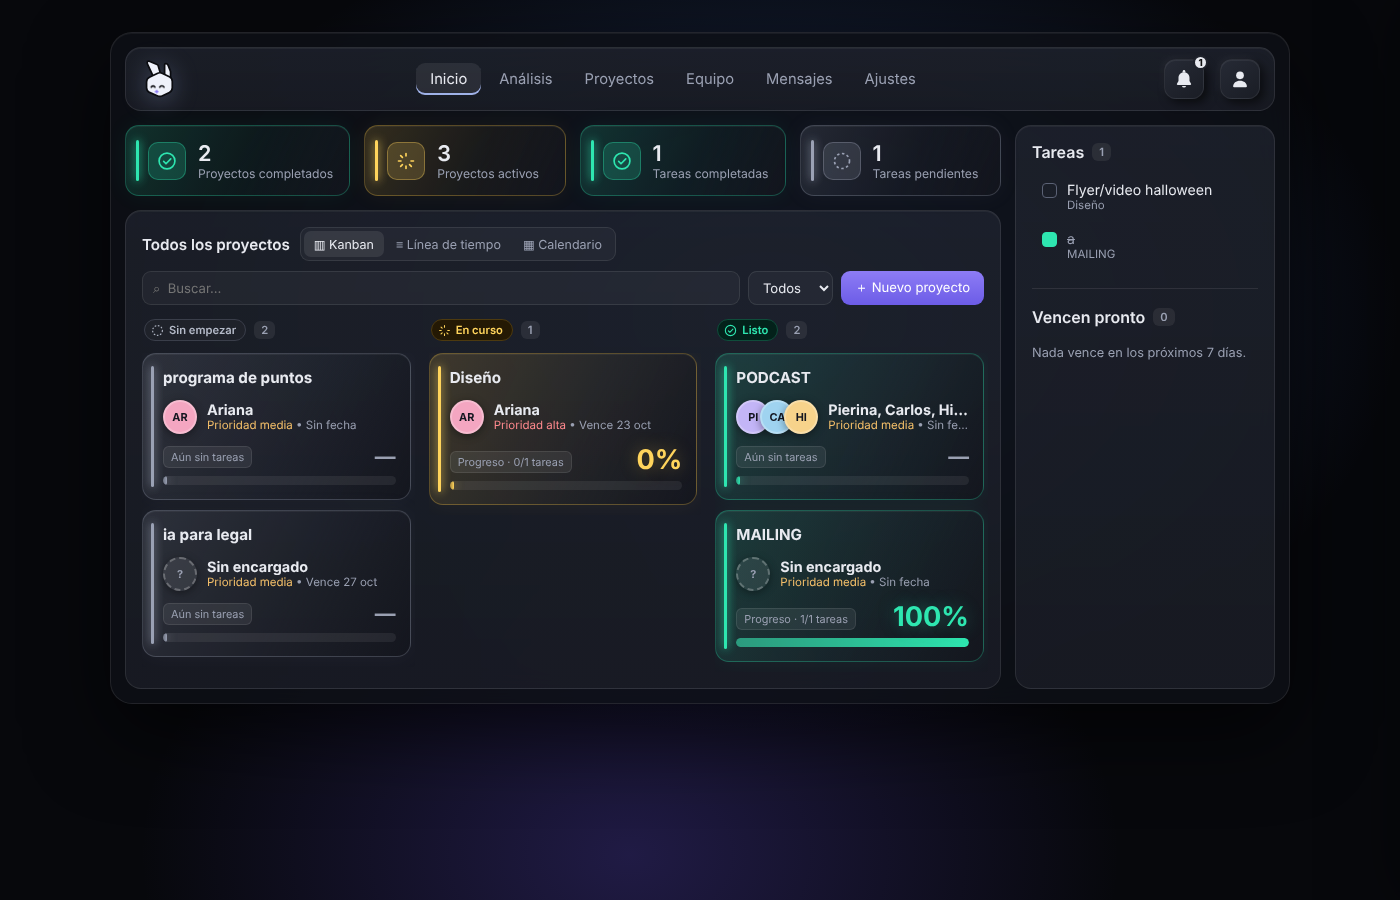
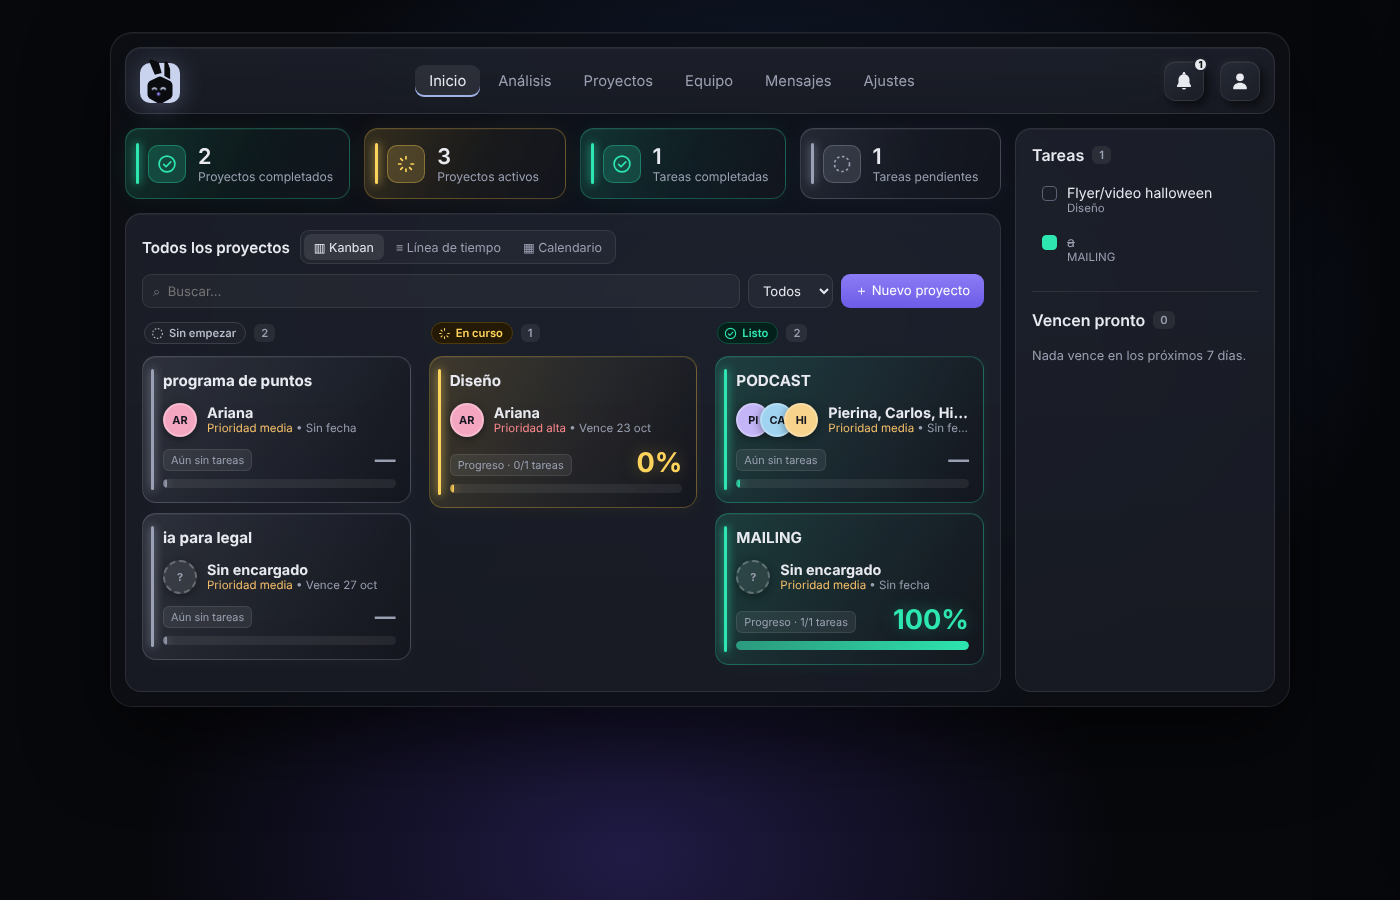
Panel: conejo dentro de su recuadro
Claude-Session: https://claude.ai/code/session_01L8QtHgV8HSYntBJ1ppQiSV

diff --git a/borradores/panel.html b/borradores/panel.html
@@ -33,8 +33,8 @@
   }
   /* Barra superior */
   .barra { display: flex; align-items: center; gap: 16px; padding: 10px 14px; margin-bottom: 14px; }
-  .logo { width: 42px; height: 42px; flex: none; display: block; filter: drop-shadow(0 4px 12px rgba(159,178,232,.3)); }
-  .logo .ojos { transform-origin: 27px 44px; animation: parpadeo 5s infinite; }
+  .logo { width: 40px; height: 45px; flex: none; display: block; filter: drop-shadow(0 4px 12px rgba(159,178,232,.3)); }
+  .logo .ojos { transform-origin: 30px 49px; animation: parpadeo 5s infinite; }
   @keyframes parpadeo { 0%, 92%, 100% { transform: scaleY(1); } 95% { transform: scaleY(.1); } }
   nav { flex: 1; display: flex; justify-content: center; gap: 4px; }
   nav a { color: var(--tenue); text-decoration: none; font-size: .92rem; padding: 7px 14px; border-radius: 9px; }
@@ -321,20 +321,20 @@
 <body>
 <div class="app">
   <header class="barra vidrio">
-    <svg class="logo" viewBox="0 0 64 64" role="img" aria-label="Inicio">
-      <g stroke="#0b0c10" stroke-width="2.6" stroke-linejoin="round" fill="#eef1fa">
-        <!-- orejas -->
-        <path d="M11 6.5c.4-1.4 1.8-2.1 3.1-1.6L26 9.8c.8.3 1.4 1 1.6 1.8l4 13.6-11.4 2.8L11.6 9.6c-.6-1-.8-2-.6-3.1Z"/>
-        <path d="M37.5 10.6c0-1.6 1.6-2.6 3-1.9 1 .5 1.9 1.4 2.4 2.5l3.3 8.4c.3.7.4 1.4.4 2.2V39l-9.1-6.3Z"/>
-        <!-- cabeza -->
-        <path d="M10 36.5c0-3 1.7-5.7 4.4-7.1l11.8-5.9c2.6-1.3 5.6-1.3 8.2 0l10.4 5.2c2.7 1.4 4.4 4.1 4.4 7.1v9.5c0 3-1.7 5.7-4.4 7.1l-10.4 5.2c-2.6 1.3-5.6 1.3-8.2 0L14.4 52.4C11.7 51 10 48.3 10 45.3Z"/>
+    <svg class="logo" viewBox="0 0 64 72" role="img" aria-label="Inicio">
+      <defs><clipPath id="logoCaja"><rect x="0" y="8" width="64" height="64" rx="16"/></clipPath></defs>
+      <rect x="0" y="8" width="64" height="64" rx="16" fill="#c9d3ee"/>
+      <!-- orejas: asoman por encima del recuadro -->
+      <g fill="#0b0c10">
+        <path d="M15 4.2c.4-1.6 2.1-2.4 3.6-1.8l10 4.2c.9.4 1.6 1.2 1.9 2.1l4.2 15.2-11 3-8.2-19.6c-.5-1-.7-2-.5-3.1Z"/>
+        <path d="M39 7.5c0-1.8 1.8-2.9 3.3-2.1 1.1.6 2 1.6 2.5 2.8l3 8.4c.3.8.4 1.6.4 2.4V34l-9.2-5.4Z"/>
       </g>
-      <!-- cara -->
-      <g class="ojos" fill="none" stroke="#0b0c10" stroke-width="2.4" stroke-linecap="round">
-        <path d="M17 44.5c1.4-2.6 4.4-2.6 5.8 0"/>
-        <path d="M30 44.5c1.6-2.9 5-2.9 6.6 0"/>
+      <!-- cabeza dentro del recuadro -->
+      <path d="M12 44c0-3.2 1.8-6.1 4.6-7.6l11.6-5.8c2.4-1.2 5.2-1.2 7.6 0l11.6 5.8c2.8 1.5 4.6 4.4 4.6 7.6v14c0 3.2-1.8 6.1-4.6 7.6L36 72H28l-11.4-6.4C13.8 64.1 12 61.2 12 58Z" fill="#0b0c10" clip-path="url(#logoCaja)"/>
+      <g class="ojos" fill="none" stroke="#c9d3ee" stroke-width="2.6" stroke-linecap="round">
+        <path d="M20 50c1.5-2.8 4.7-2.8 6.2 0"/><path d="M33.6 50c1.6-3 5.2-3 6.8 0"/>
       </g>
-      <path d="M25.4 49.2v3.8M23.5 51.1h3.8" stroke="#8d7cf5" stroke-width="2.2" stroke-linecap="round"/>
+      <path d="M29.6 55.6v4M27.6 57.6h4" stroke="#8d7cf5" stroke-width="2.4" stroke-linecap="round"/>
     </svg>
     <nav>
       <a class="activo">Inicio</a><a>Análisis</a><a>Proyectos</a><a>Equipo</a><a>Mensajes</a><a>Ajustes</a>
